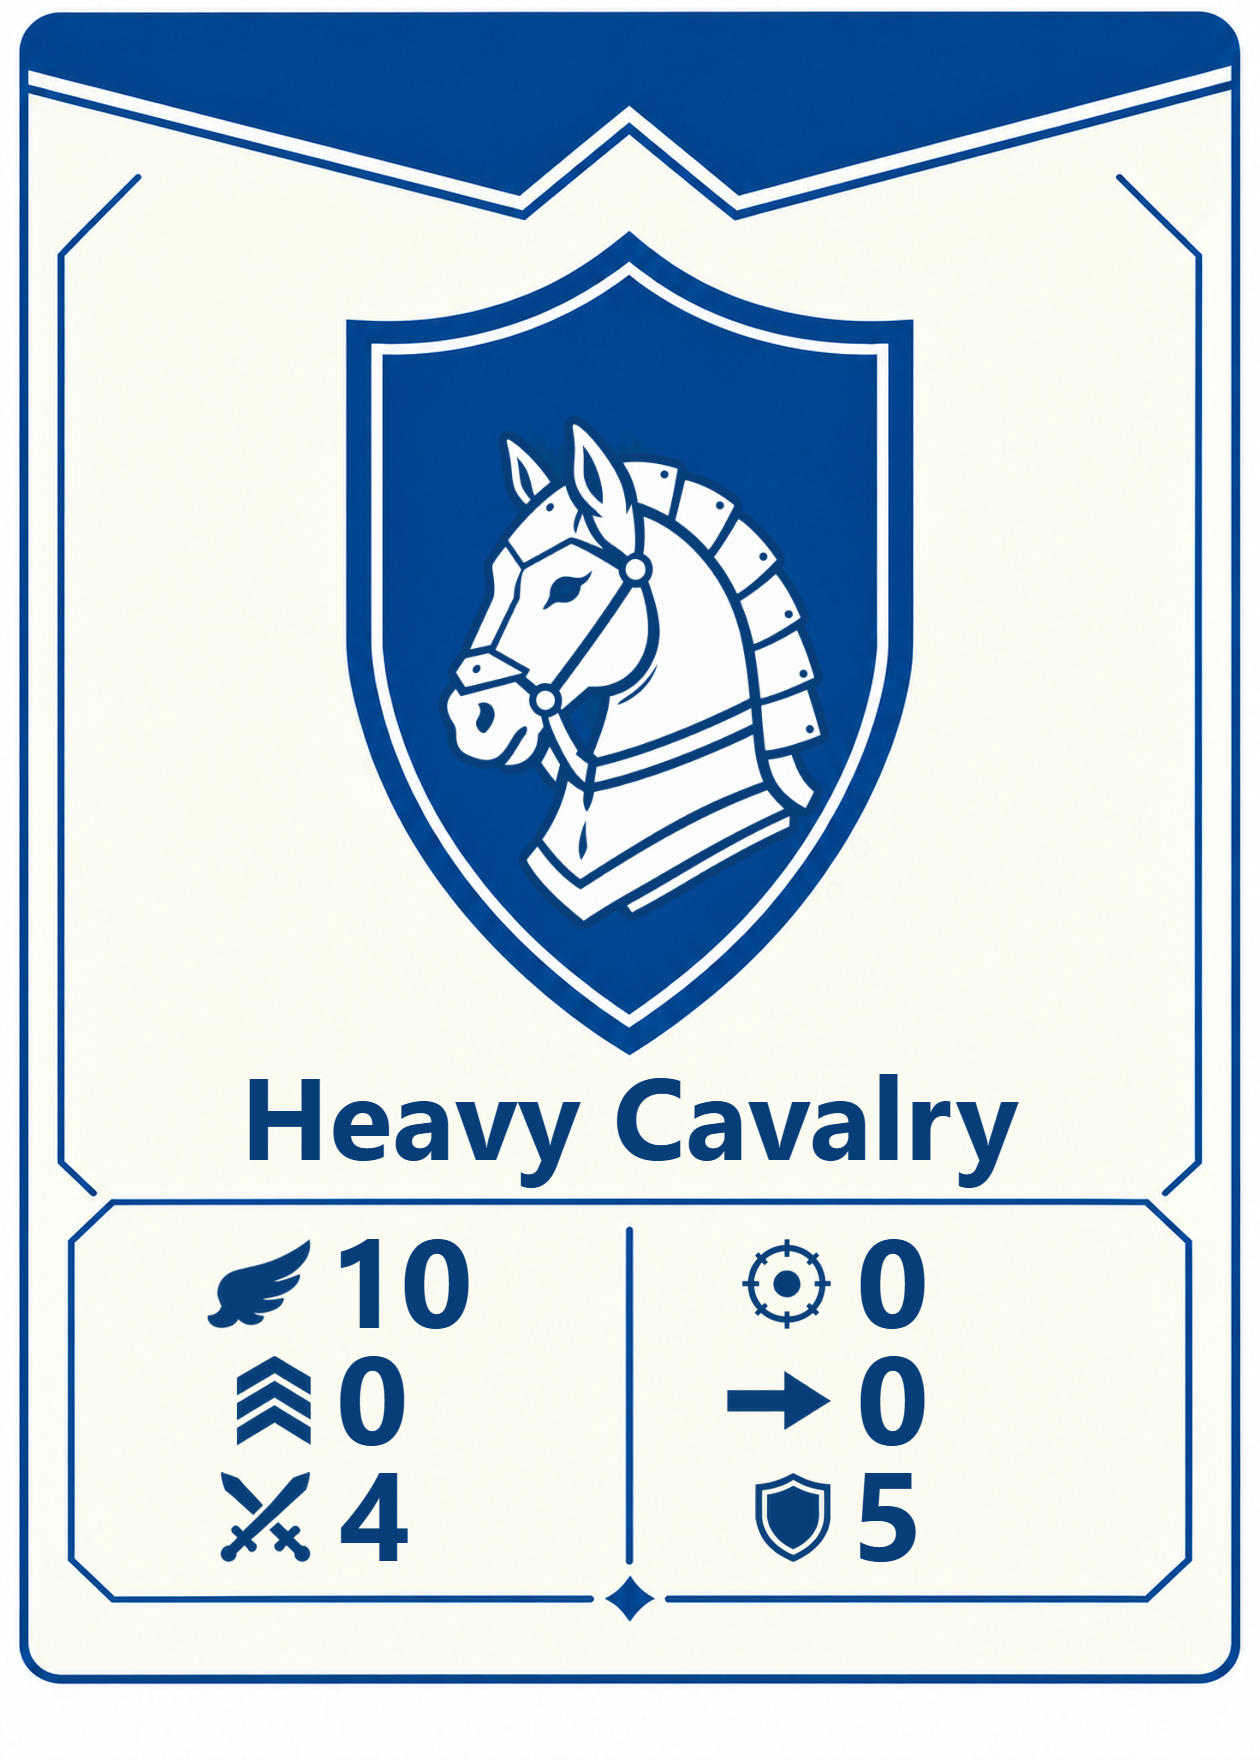
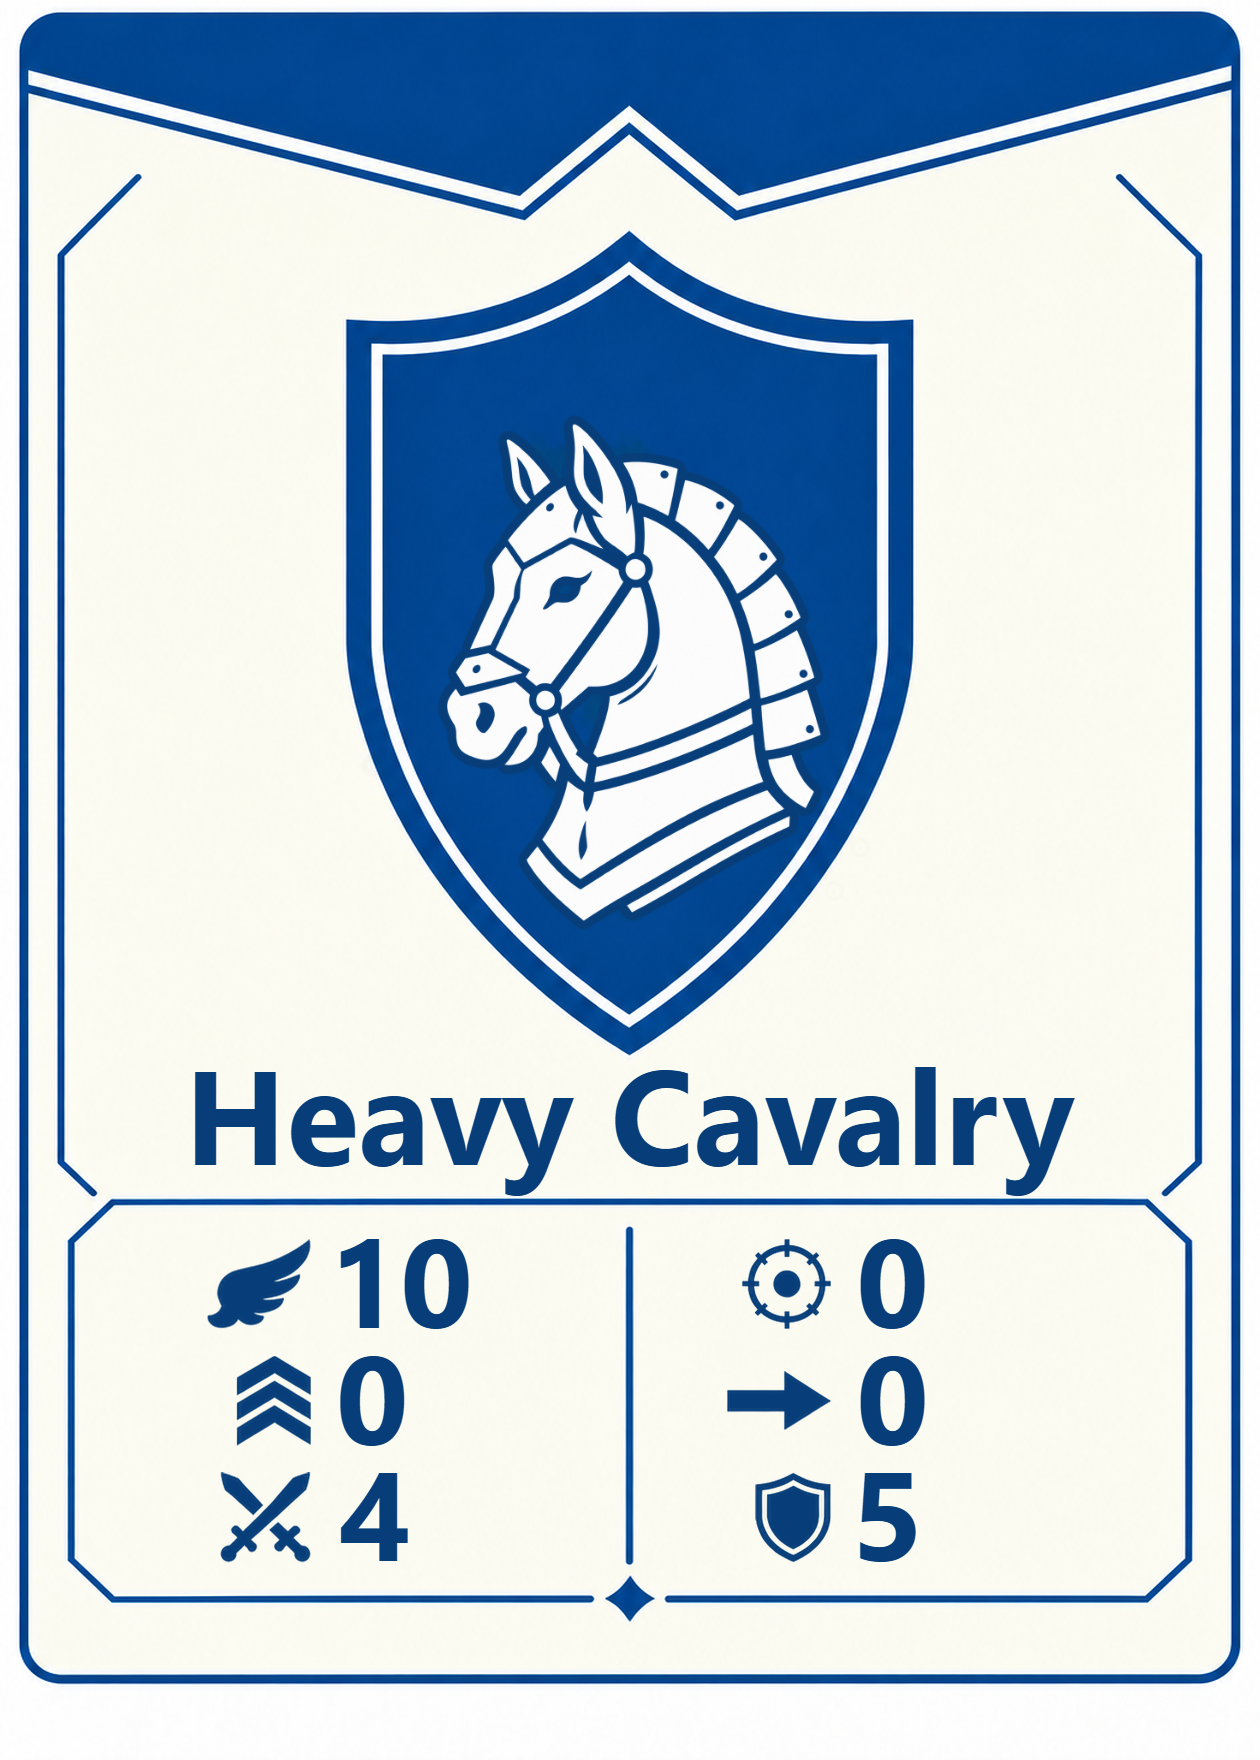
one col if fits

Changed region(s): [[0.4952, 0.5938, 0.8667, 0.6875], [0.1548, 0.5938, 0.4643, 0.6875]]

diff --git a/battle-console.css b/battle-console.css
@@ -48,7 +48,7 @@ body {
 .battle-console-grid { display:grid; grid-template-columns:minmax(0,1fr); gap:10px; min-width:0; }
 .battle-command-column,.battle-reference-column { display:flex; flex-direction:column; gap:10px; min-width:0; }
 #left-sidebar.is-two-column .battle-console-grid { grid-template-columns:minmax(0,1fr) minmax(0,1fr); align-items:stretch; gap:14px; flex:1 0 auto; }
-#left-sidebar.is-two-column .battle-command-column>.battle-tools-section { margin-top:auto; }
+#left-sidebar.is-two-column .battle-command-column>.battle-tools-section { margin-top:0; }
 #left-sidebar:not(.is-two-column) .battle-console-grid { display:flex; flex-direction:column; }
 #left-sidebar:not(.is-two-column) .battle-command-column,#left-sidebar:not(.is-two-column) .battle-reference-column { display:contents; }
 #left-sidebar:not(.is-two-column) .battle-console-grid>.battle-command-column>.battle-tools-section { order:10; margin-top:8px; }
@@ -125,10 +125,6 @@ button:disabled { background:#d3c5a6; color:#7b6e52; border-color:#b3a17a; opaci
 .battle-extras>summary { padding:0 0 6px; }
 #stats-panel { padding:9px; }
 .stats-unit-name { font-family:var(--font-display); font-size:17px; color:#422f17; border-bottom-color:#b8a176; }
-.stats-view-switch button[aria-pressed=true] { background:#8a6733; color:#fff1d0; border-color:#705120; }
-.stats-unit-card-link { border-radius:3px; border:1px solid #bfa779; background:#f8eed7; }
-.stats-unit-card-image { max-height:360px; object-fit:contain; }
-.stats-card[data-profile-view=card] .stats-live-profile { display:none; }
 .stat-icon { filter:brightness(0) saturate(100%) invert(31%) sepia(21%) saturate(1100%) hue-rotate(355deg); }
 .stat-label { color:#77613d; }
 .stat-value { font-family:var(--font-display); color:#473116; }
@@ -158,8 +154,8 @@ button:disabled { background:#d3c5a6; color:#7b6e52; border-color:#b3a17a; opaci
 .command-tray .command-token { width:26px; min-width:26px; max-width:26px; height:26px; }
 .command-tray .tray-placeholder { width:100%; }
 .unit-command-dock .command-token::after { font-size:7px; }
-.unit.has-unit-artwork .unit-label { position:absolute; left:4px; right:4px; bottom:4px; width:auto; height:40%; max-height:40%; display:flex; align-items:center; justify-content:center; text-align:center; line-height:1.05; }
-.unit-artwork-badge { position:absolute; top:4px; right:4px; width:35%; height:43%; max-width:26px; max-height:28px; object-fit:contain; pointer-events:none; filter:drop-shadow(0 1px 1px #0008); }
+.unit.has-unit-artwork .unit-label { position:absolute; left:2px; right:2px; bottom:3px; width:auto; height:46%; max-height:46%; display:flex; align-items:center; justify-content:center; text-align:center; line-height:1.05; }
+.unit-artwork-badge { position:absolute; top:4px; right:4px; width:35%; height:36%; max-width:26px; max-height:26px; object-fit:contain; pointer-events:none; filter:drop-shadow(0 1px 1px #0008); }
 @media (max-height:950px) and (orientation:landscape) {
     #left-sidebar.is-two-column { padding:9px; gap:8px; }
     #left-sidebar.is-two-column .battle-console-title { font-size:23px; padding:2px 0 4px; }
@@ -176,7 +172,6 @@ button:disabled { background:#d3c5a6; color:#7b6e52; border-color:#b3a17a; opaci
     #left-sidebar.is-two-column .bid-card { padding:6px; gap:6px; }
     #left-sidebar.is-two-column #my-bid-input { height:34px; }
     #left-sidebar.is-two-column #lock-bid-btn { height:32px; min-height:32px; }
-    #left-sidebar.is-two-column .stats-unit-card-image { max-height:300px; }
 }
 @media (max-width:1100px) and (orientation:portrait) {
     .battle-console-grid { grid-template-columns:repeat(2,minmax(0,1fr)); align-items:start; }
@@ -240,8 +235,6 @@ button:disabled { background:#d3c5a6; color:#7b6e52; border-color:#b3a17a; opaci
     #left-sidebar:not(.is-two-column) #stats-panel>h3 { display:none; }
     #left-sidebar:not(.is-two-column) .stats-card { gap:3px; }
     #left-sidebar:not(.is-two-column) .stats-unit-name { font-size:14px; padding-bottom:3px; }
-    #left-sidebar:not(.is-two-column) .stats-view-switch button { min-height:26px; padding:3px 4px; font-size:10px; }
-    #left-sidebar:not(.is-two-column) .stats-unit-card-image { max-height:clamp(96px,calc(100dvh - 650px),320px); }
     #left-sidebar:not(.is-two-column) .stats-card[data-profile-view=artwork] .stats-grid { grid-template-columns:repeat(2,minmax(0,1fr)); gap:4px; }
     #left-sidebar:not(.is-two-column) .help-section { margin-top:3px; padding-top:3px; font-size:11px; }
     #left-sidebar:not(.is-two-column) #command-staging-panel { display:grid; grid-template-columns:repeat(2,minmax(0,1fr)); gap:5px; padding-top:4px; }
@@ -261,20 +254,9 @@ button:disabled { background:#d3c5a6; color:#7b6e52; border-color:#b3a17a; opaci
     #left-sidebar:not(.is-two-column) .dice-roll-card { padding:3px; }
 }
 @media (max-height:850px) and (orientation:landscape) {
-    #left-sidebar:not(.is-two-column) .stats-card[data-profile-view=card] { display:grid; grid-template-columns:86px minmax(0,1fr); gap:3px 6px; align-items:center; }
-    #left-sidebar:not(.is-two-column) .stats-card[data-profile-view=card] .stats-unit-name,
-    #left-sidebar:not(.is-two-column) .stats-card[data-profile-view=card] .stats-view-switch,
-    #left-sidebar:not(.is-two-column) .stats-card[data-profile-view=card] .rules-block { grid-column:1/-1; }
-    #left-sidebar:not(.is-two-column) .stats-card[data-profile-view=card] .stats-live-profile { display:block; }
-    #left-sidebar:not(.is-two-column) .stats-card[data-profile-view=card] .stats-grid { grid-template-columns:repeat(2,minmax(0,1fr)); gap:4px; }
-    #left-sidebar:not(.is-two-column) .stats-card[data-profile-view=card] .stat-chip { padding:5px 3px; gap:2px; }
-    #left-sidebar:not(.is-two-column) .stats-card[data-profile-view=card] .stat-label { font-size:9px; }
-    #left-sidebar:not(.is-two-column) .stats-card[data-profile-view=card] .stat-value { font-size:15px; }
-    #left-sidebar:not(.is-two-column) .stats-card[data-profile-view=card] .stat-icon { width:12px; height:12px; }
 }
 @media (any-pointer:coarse) and (orientation:landscape) {
     #left-sidebar:not(.is-two-column) #my-bid-input { height:44px; }
     #left-sidebar:not(.is-two-column) #lock-bid-btn { height:44px; min-height:44px; }
     #left-sidebar:not(.is-two-column) .bid-step-buttons button { height:20px; min-height:20px; flex:1; }
-    #left-sidebar:not(.is-two-column) .stats-unit-card-image { max-height:clamp(90px,calc(100dvh - 664px),306px); }
 }

diff --git a/app.js b/app.js
@@ -24,8 +24,8 @@ const TOOLTIP_SUPPRESS_AFTER_MANIPULATION_MS = 300;
 const DRAG_THRESHOLD_PX = 8;
 const UNIT_LONG_PRESS_MS = 500;
 const TOUCH_ROTATION_STEP_DEG = 5;
-const UNIT_LABEL_MAX_FONT_PX = 10.5;
-const UNIT_LABEL_MIN_FONT_PX = 4.5;
+const UNIT_LABEL_MAX_FONT_PX = 13.5;
+const UNIT_LABEL_MIN_FONT_PX = 6;
 const UNIT_LABEL_FONT_STEP_PX = 0.25;
 
 // --- CONVERSIONS ---
@@ -1088,11 +1088,6 @@ function getStatValue(stats, ...keys) {
     return '-';
 }
 
-function getUnitStatsView() {
-    try { return localStorage.getItem('unit-profile-view') === 'artwork' ? 'artwork' : 'card'; }
-    catch { return 'card'; }
-}
-
 function buildStatsMarkup(unitSource) {
     if (!unitSource) {
         return '<span class="stats-empty">Select a unit to inspect its profile.</span>';
@@ -1125,13 +1120,9 @@ function buildStatsMarkup(unitSource) {
 
     if (stats) {
         const colour = unitSource.dataset && unitSource.dataset.owner === 'p2' ? 'orange' : 'blue';
-        const cardPath = typeof UnitArtwork !== 'undefined' ? UnitArtwork.cardFor({ ...stats, Unit: cleanName }, colour) : '';
         const safeCardName = cleanName.replace(/[&<>"']/g, character => ({ '&': '&amp;', '<': '&lt;', '>': '&gt;', '"': '&quot;', "'": '&#39;' }[character]));
-        const cardHtml = cardPath ? `<a class="stats-unit-card-link" href="${cardPath}" target="_blank" rel="noopener" aria-label="Open ${safeCardName} card at full size"><img class="stats-unit-card-image" src="${cardPath}" alt="${safeCardName} unit card" onerror="this.parentElement.hidden=true"></a>` : '';
         const artworkFile = typeof UnitArtwork !== 'undefined' ? UnitArtwork.fileFor({ ...stats, Unit: cleanName }) : '';
         const artworkHtml = artworkFile ? `<div class="stats-artwork-emblem army-${colour}"><img class="stats-unit-artwork" src="images/${encodeURIComponent(artworkFile)}" alt="${safeCardName} artwork" onerror="this.parentElement.hidden=true"></div>` : '';
-        const view = cardPath ? getUnitStatsView() : 'artwork';
-        const viewButtons = cardPath && artworkFile ? `<div class="stats-view-switch" role="group" aria-label="Profile display"><button type="button" data-stats-view="card" aria-pressed="${view === 'card'}" onclick="setUnitStatsView('card')">Full card</button><button type="button" data-stats-view="artwork" aria-pressed="${view === 'artwork'}" onclick="setUnitStatsView('artwork')">Artwork + stats</button></div>` : '';
         const filteredRules = [...new Set(activeRules.filter(r => r && r.trim() !== ""))];
         const rulesHtml = filteredRules.length > 0
             ? `<div class="rules-block">
@@ -1141,10 +1132,8 @@ function buildStatsMarkup(unitSource) {
             : "";
 
         return `
-                <div class="stats-card" data-profile-view="${view}">
+                <div class="stats-card" data-profile-view="artwork">
                     <div class="stats-unit-name">${safeCardName}</div>
-                    ${viewButtons}
-                    ${cardHtml}
                     <div class="stats-live-profile">
                     ${artworkHtml}
                     <div class="stats-grid">
@@ -1185,17 +1174,6 @@ function updateStatsPanel(unitSource) {
         const profileDetails = document.getElementById('unit-profile-details');
         if (profileDetails) profileDetails.open = true;
     }
-}
-
-function setUnitStatsView(view) {
-    if (view !== 'card' && view !== 'artwork') return;
-    try { localStorage.setItem('unit-profile-view', view); } catch {}
-    document.querySelectorAll('#stats-content .stats-card').forEach(card => {
-        card.dataset.profileView = view;
-        card.querySelectorAll('[data-stats-view]').forEach(button => {
-            button.setAttribute('aria-pressed', String(button.dataset.statsView === view));
-        });
-    });
 }
 
 function buildUnitControlsMarkup() {
@@ -2531,25 +2509,11 @@ function fitAllUnitLabels() {
     const labels = Array.from(document.querySelectorAll('.unit-label'));
     if (!labels.length) return;
 
-    let sharedFontSize = UNIT_LABEL_MIN_FONT_PX;
-
-    for (
-        let fontSize = UNIT_LABEL_MAX_FONT_PX;
-        fontSize >= UNIT_LABEL_MIN_FONT_PX;
-        fontSize -= UNIT_LABEL_FONT_STEP_PX
-    ) {
-        labels.forEach(label => {
-            label.style.fontSize = `${fontSize}px`;
-        });
-
-        if (labels.every(unitLabelFits)) {
-            sharedFontSize = fontSize;
-            break;
-        }
-    }
-
     labels.forEach(label => {
-        label.style.fontSize = `${sharedFontSize}px`;
+        for (let fontSize = UNIT_LABEL_MAX_FONT_PX; fontSize >= UNIT_LABEL_MIN_FONT_PX; fontSize -= UNIT_LABEL_FONT_STEP_PX) {
+            label.style.fontSize = `${fontSize}px`;
+            if (unitLabelFits(label)) break;
+        }
     });
 }
 

diff --git a/styles.css b/styles.css
@@ -3387,19 +3387,8 @@ html:fullscreen #table-container, html:-webkit-full-screen #table-container { mi
     .bid-step-buttons { display: flex; flex-direction: column; position: absolute; top: 2px; right: 2px; bottom: 2px; width: 30px; }
     .sidebar .bid-step-buttons button { min-height: 22px; height: 22px; width: 30px; padding: 0; margin: 0; font-size: 11px; line-height: 1; border-radius: 3px; }
 }
-
-/* Full card preview in the unit profile; live stat values stay available below. */
-.stats-unit-card-link { display:block; width:100%; border-radius:8px; overflow:hidden; }
-.stats-unit-card-link[hidden] { display:none; }
-.stats-unit-card-image { display:block; width:100%; height:auto; object-fit:contain; }
-.stats-unit-card-link:focus-visible { outline:2px solid var(--gold); outline-offset:3px; }
-
-.stats-view-switch { display:flex; gap:4px; }
-.stats-view-switch button { flex:1; min-width:0; padding:7px 4px; font-size:11px; line-height:1.25; border:1px solid rgba(23,108,113,.22); border-radius:5px; background:transparent; color:var(--ink-main); cursor:pointer; }
-.stats-view-switch button[aria-pressed=true] { background:rgba(23,108,113,.15); border-color:var(--ink-main); font-weight:700; }
 .stats-live-profile { display:block; }
 .stats-artwork-emblem { display:none; }
-.stats-card[data-profile-view=artwork] .stats-unit-card-link { display:none; }
 .stats-card[data-profile-view=artwork] .stats-live-profile { display:grid; grid-template-columns:52px minmax(0,1fr); gap:8px; align-items:start; }
 .stats-card[data-profile-view=artwork] .stats-grid { grid-template-columns:minmax(0,1fr); }
 .stats-card[data-profile-view=artwork] .stats-artwork-emblem { display:flex; align-items:center; justify-content:center; width:52px; height:68px; padding:7px; background:#073e79; clip-path:polygon(50% 0,100% 12%,100% 60%,85% 82%,50% 100%,15% 82%,0 60%,0 12%); }

diff --git a/tests/roles-stats.test.js b/tests/roles-stats.test.js
@@ -57,11 +57,14 @@ test('Unit artwork reads sheet filenames and safely falls back to the local mapp
     assert.equal(artwork.offsetY({ Unit: 'Cavalry' }), 0);
 });
 
-test('Unit profiles include the matching army card and retain the live stats', () => {
+test('Unit profiles show army artwork and live stats without the removed full-card view', () => {
     const context = loadStatsContext(() => {});
     const markup = vm.runInContext("buildStatsMarkup({ dataset: { name: 'Light Cavalry', owner: 'p2' }, _unitStats: { Unit: 'Light Cavalry', Speed: '16', Drill: '3', Melee: '4', Def: '3' } })", context);
-    assert.ok(markup.includes('images/unit-cards/light-cavalry-orange.png'));
+    assert.ok(markup.includes('army-orange'));
+    assert.ok(markup.includes('stats-unit-artwork'));
+    assert.ok(!markup.includes('stats-unit-card-image'));
+    assert.ok(!markup.includes('stats-view-switch'));
     assert.ok(markup.includes('>16/3</span>'), 'live stats remain available in Artwork + stats view');
-    assert.ok(vm.runInContext("buildStatsMarkup('Light Cavalry')", context).includes('images/unit-cards/light-cavalry-blue.png'));
+    assert.ok(vm.runInContext("buildStatsMarkup('Light Cavalry')", context).includes('army-blue'));
     assert.ok(!vm.runInContext("buildStatsMarkup({ Unit: 'Custom unit', Speed: '4' })", context).includes('stats-unit-card-image'));
 });

diff --git a/card-maker/studio.js b/card-maker/studio.js
@@ -75,7 +75,7 @@ async function renderCard(unit,colour) {
   ctx.drawImage(art,x,y,w,h);
  }
  ctx.fillStyle=ink;ctx.textAlign='center';ctx.textBaseline='middle';
- fitText(ctx,unit.Unit,portrait?530:741,portrait?(colour==='blue'?950:990):778,portrait?850:1240,portrait?98:108,24);
+ fitText(ctx,unit.Unit,portrait?530:741,portrait?(colour==='blue'?950:990):778,portrait?850:1240,portrait?112:128,24);
  const ranged=String(unit.Ranged||'—').split('/');const values=[unit.Speed,unit.Drill,unit.Melee,ranged[0],ranged[1]||'—',unit.Def];
  // Equal cells and a fixed gap from the visible icon edge to left-aligned text.
  const bounds=portrait?(colour==='blue'?{left:92,right:968,top:1032,bottom:1327}:{left:96,right:964,top:1077,bottom:1372}):{left:78,right:1404,top:880,bottom:989};

diff --git a/card-maker/README.md b/card-maker/README.md
@@ -22,12 +22,12 @@ The sheet's `Icon` column can specify a local image filename (or `images/filenam
 
 Images inserted directly into sheet cells are omitted from CSV. To update those assignments, download the public sheet as XLSX, then run `python card-maker/import-sheet-icons.py path/to/export.xlsx`. This reads the RolesStats drawing anchors, maps images to Unit rows in the Icon column, preserves their original image bytes in `images/`, and updates the shared artwork assignments. It does not change the Google Sheet. Reopen the editor and regenerate the cards after importing.
 
-To update Protosite's card images after exporting, run `python card-maker/publish-cards.py path/to/export.zip`. The unit profile displays the blue card for Player 1 or unassigned units, and orange for Player 2; click the image to open it at full size. Live numerical stats and special rules remain below the card. Card image stats reflect the last export; refresh and export again after changing the sheet.
+To update Protosite's printable card assets after exporting, run `python card-maker/publish-cards.py path/to/export.zip`. The exported images reflect the last export; refresh and export again after changing the sheet. The unit profile panel uses the live values and separate artwork.
 
-The unit profile has Full card and Artwork + stats buttons for comparison. Artwork mode shows the sheet-assigned unit image beside the live numerical stats. The chosen view persists across unit selections and browser reloads.
+The unit profile shows the sheet-assigned unit image beside the live numerical stats. The full-card preview and display selector have been removed.
 
 Profiles & help starts expanded. Hovering over or selecting a unit reopens it, including during drafting before the first bid reveal. Inspecting a profile does not reveal bids or start the battle.
 
-Protosite's field headquarters defaults to one compact control column on tablets and desktops. Terrain and bidding use short rows, card previews scale with screen height, and the dice roller stays at the bottom. Short landscape phones use two columns. Drag the brass divider between the controls and battlefield to resize the panel; widening it to 420 pixels opens a second column. The chosen width is remembered locally. Double-click the divider or press Enter while it is focused to restore automatic sizing; arrow keys also adjust the width. Narrow portrait screens use the stacked layout.
+Protosite's field headquarters defaults to one compact control column on tablets and desktops. Terrain and bidding use short rows, and card previews scale with screen height. In two-column mode, the dice roller follows the turn controls in the first column without being pinned to the screen's bottom edge. Short landscape phones use two columns. Drag the brass divider between the controls and battlefield to resize the panel; widening it to 420 pixels opens a second column. The chosen width is remembered locally. Double-click the divider or press Enter while it is focused to restore automatic sizing; arrow keys also adjust the width. Narrow portrait screens use the stacked layout.
 
-Full card view opens the full-resolution image when clicked. Short single-column layouts also show readable live stat values beside the thumbnail; Artwork + stats shows the unit image and live values. Battlefield units show their sheet-assigned icon at the top right and their name along the bottom. Either player can pass the active command window or end the round, while unit activations still follow the active player's turn. The parchment, brass, slate and ochre interface is styled in `battle-console.css`.
+Battlefield units show their sheet-assigned icon at the top right and their enlarged name along the bottom. Each label fits its own unit independently, so a long name does not shrink every label. Either player can pass the active command window or end the round, while unit activations still follow the active player's turn. The parchment, brass, slate and ochre interface is styled in `battle-console.css`.
